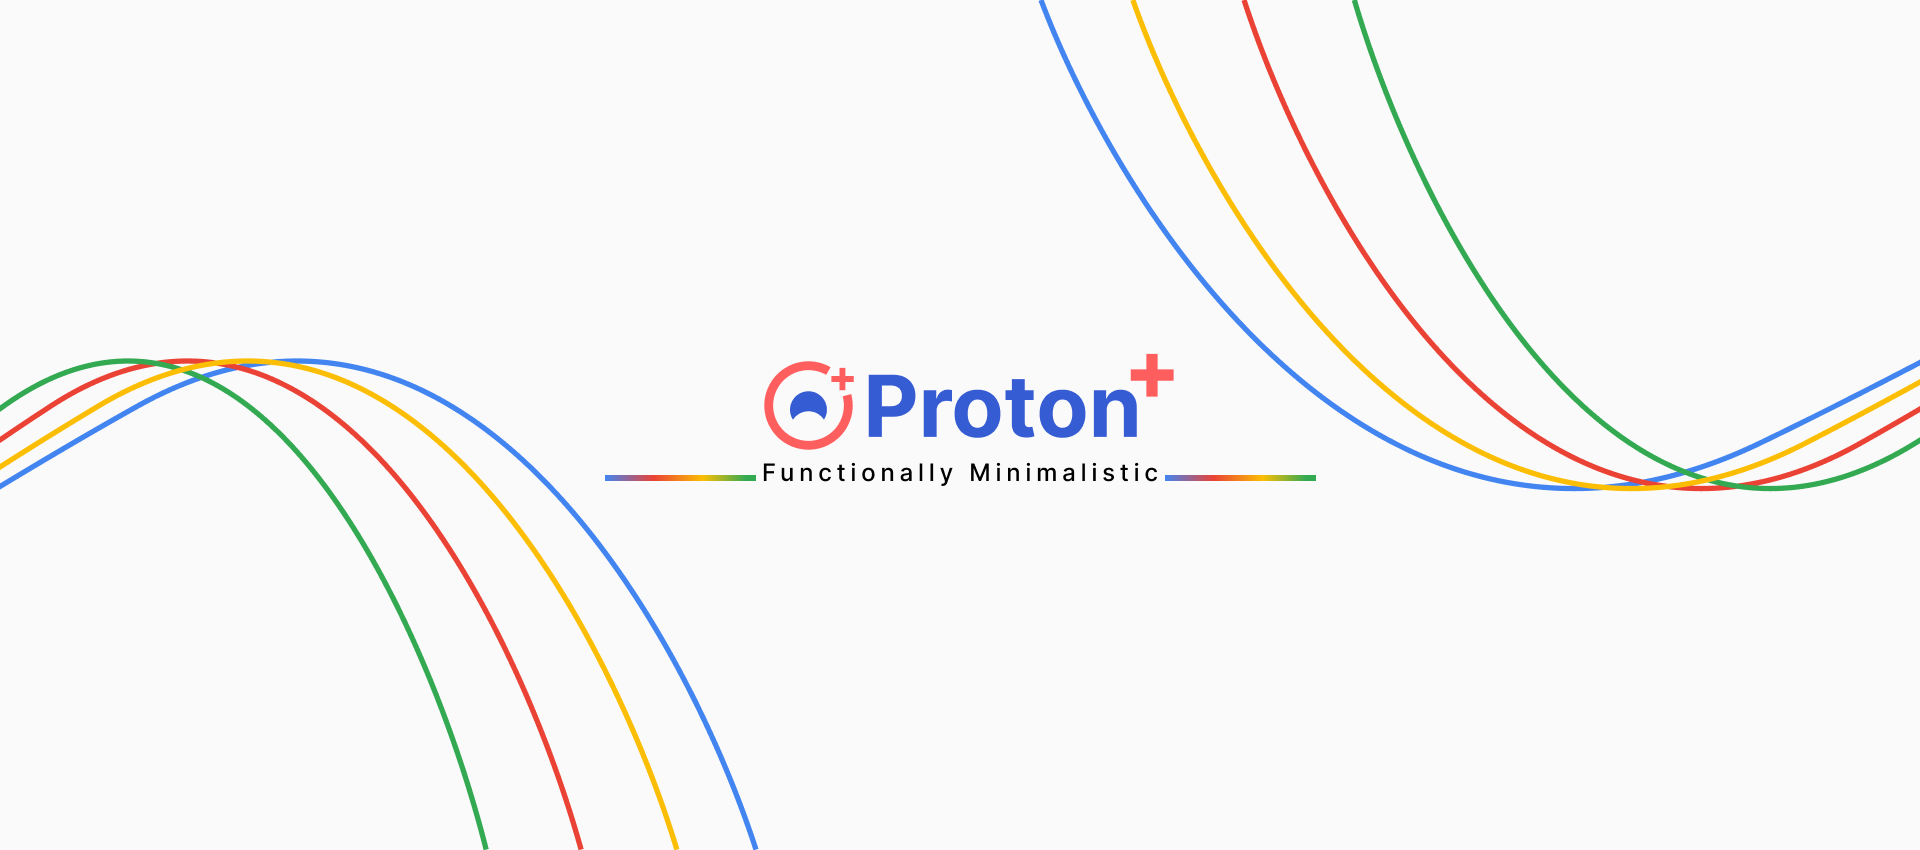
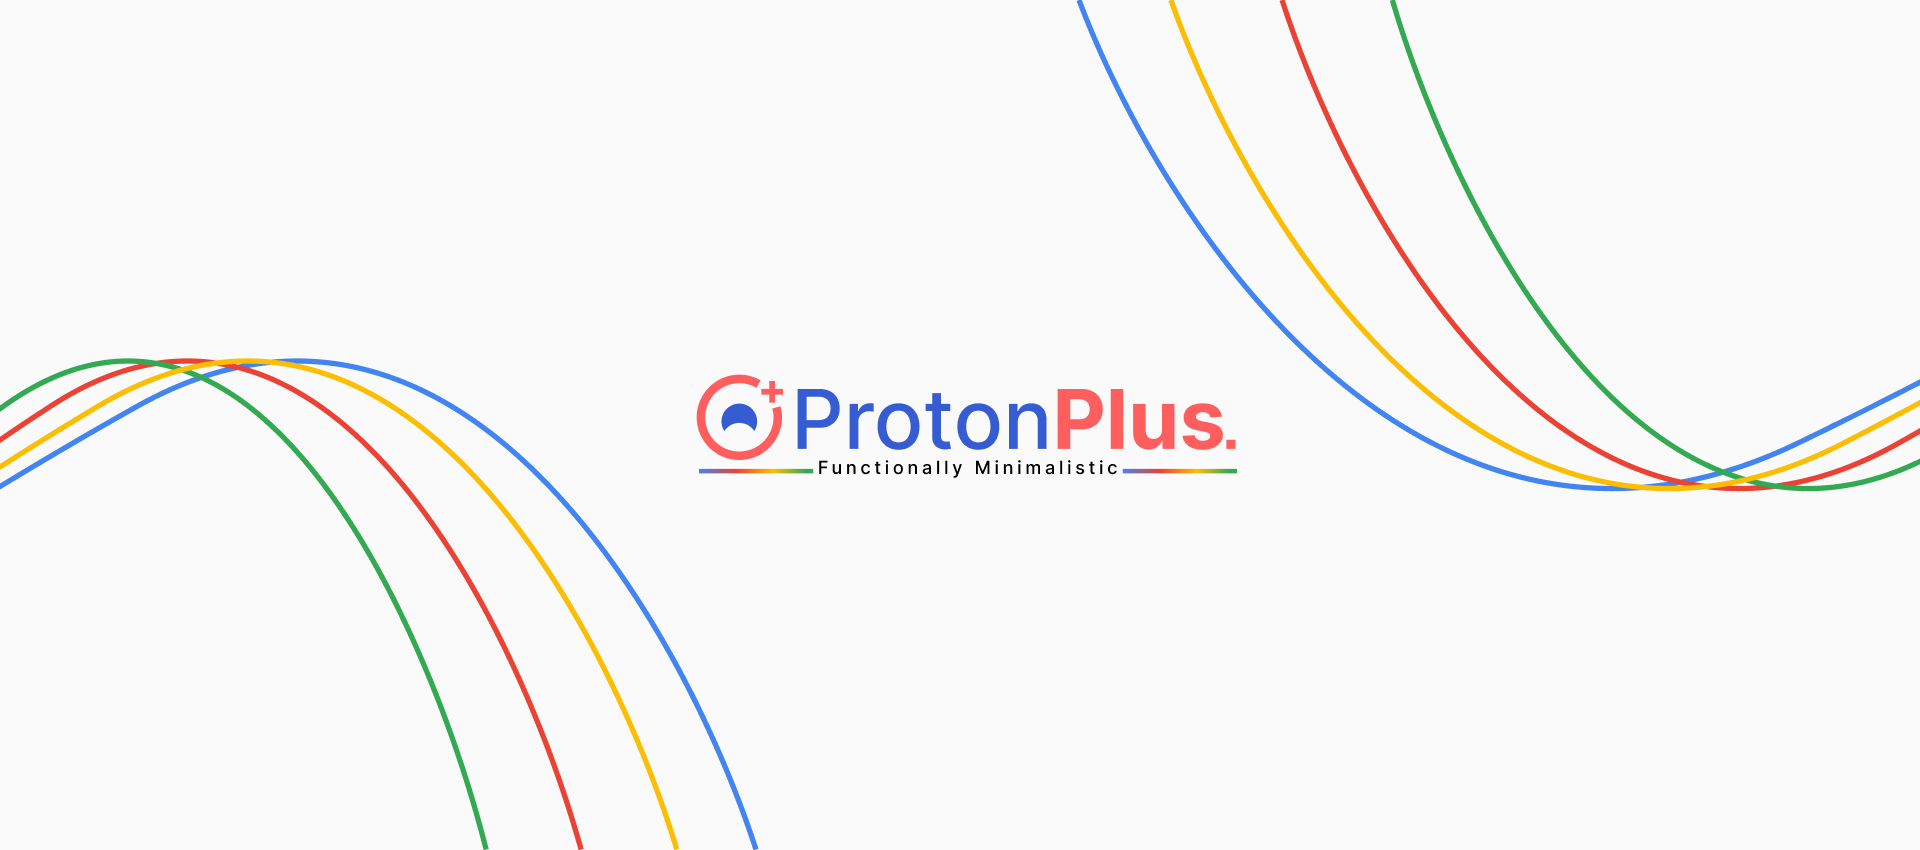
Proton+ > ProtonPlus

Changed region(s): [[0.5312, 0.0, 1.0, 0.5812], [0.3125, 0.4282, 0.6875, 0.5812]]

diff --git a/profile/Readme.md b/profile/Readme.md
@@ -1,10 +1,10 @@
-# Proton+
+# ProtonPlus
 
 ![banner](https://raw.githubusercontent.com/protonplus-org/.github/master/profile/banner.png)
 
-Welcome to Proton+ 
+Welcome to ProtonPlus 
 
-Proton+ is a fork of ProtonAOSP that aims to bring you a rom that takes the minimalism and speed of ProtonAOSP and provide some nifty extra features that enhance your daily driving experience. It's stock, it's simple and it has everything necessary right out of the box.
+ProtonPlus is a fork of ProtonAOSP that aims to bring you a rom that takes the minimalism and speed of ProtonAOSP and provide some nifty extra features that enhance your daily driving experience. It's stock, it's simple and it has everything necessary right out of the box.
 
 [![Total ProtonPlus Downloaded ](https://img.shields.io/sourceforge/dt/protonplus?&label=Downloads&color=critical&style=flat-square)](https://sourceforge.net/projects/protonplus/files/latest/download)  [![Total ProtonPlus Downloaded per Month](https://img.shields.io/sourceforge/dm/protonplus?&label=Downloads&color=critical&style=flat-square)](https://sourceforge.net/projects/protonplus/files/latest/download)
 
